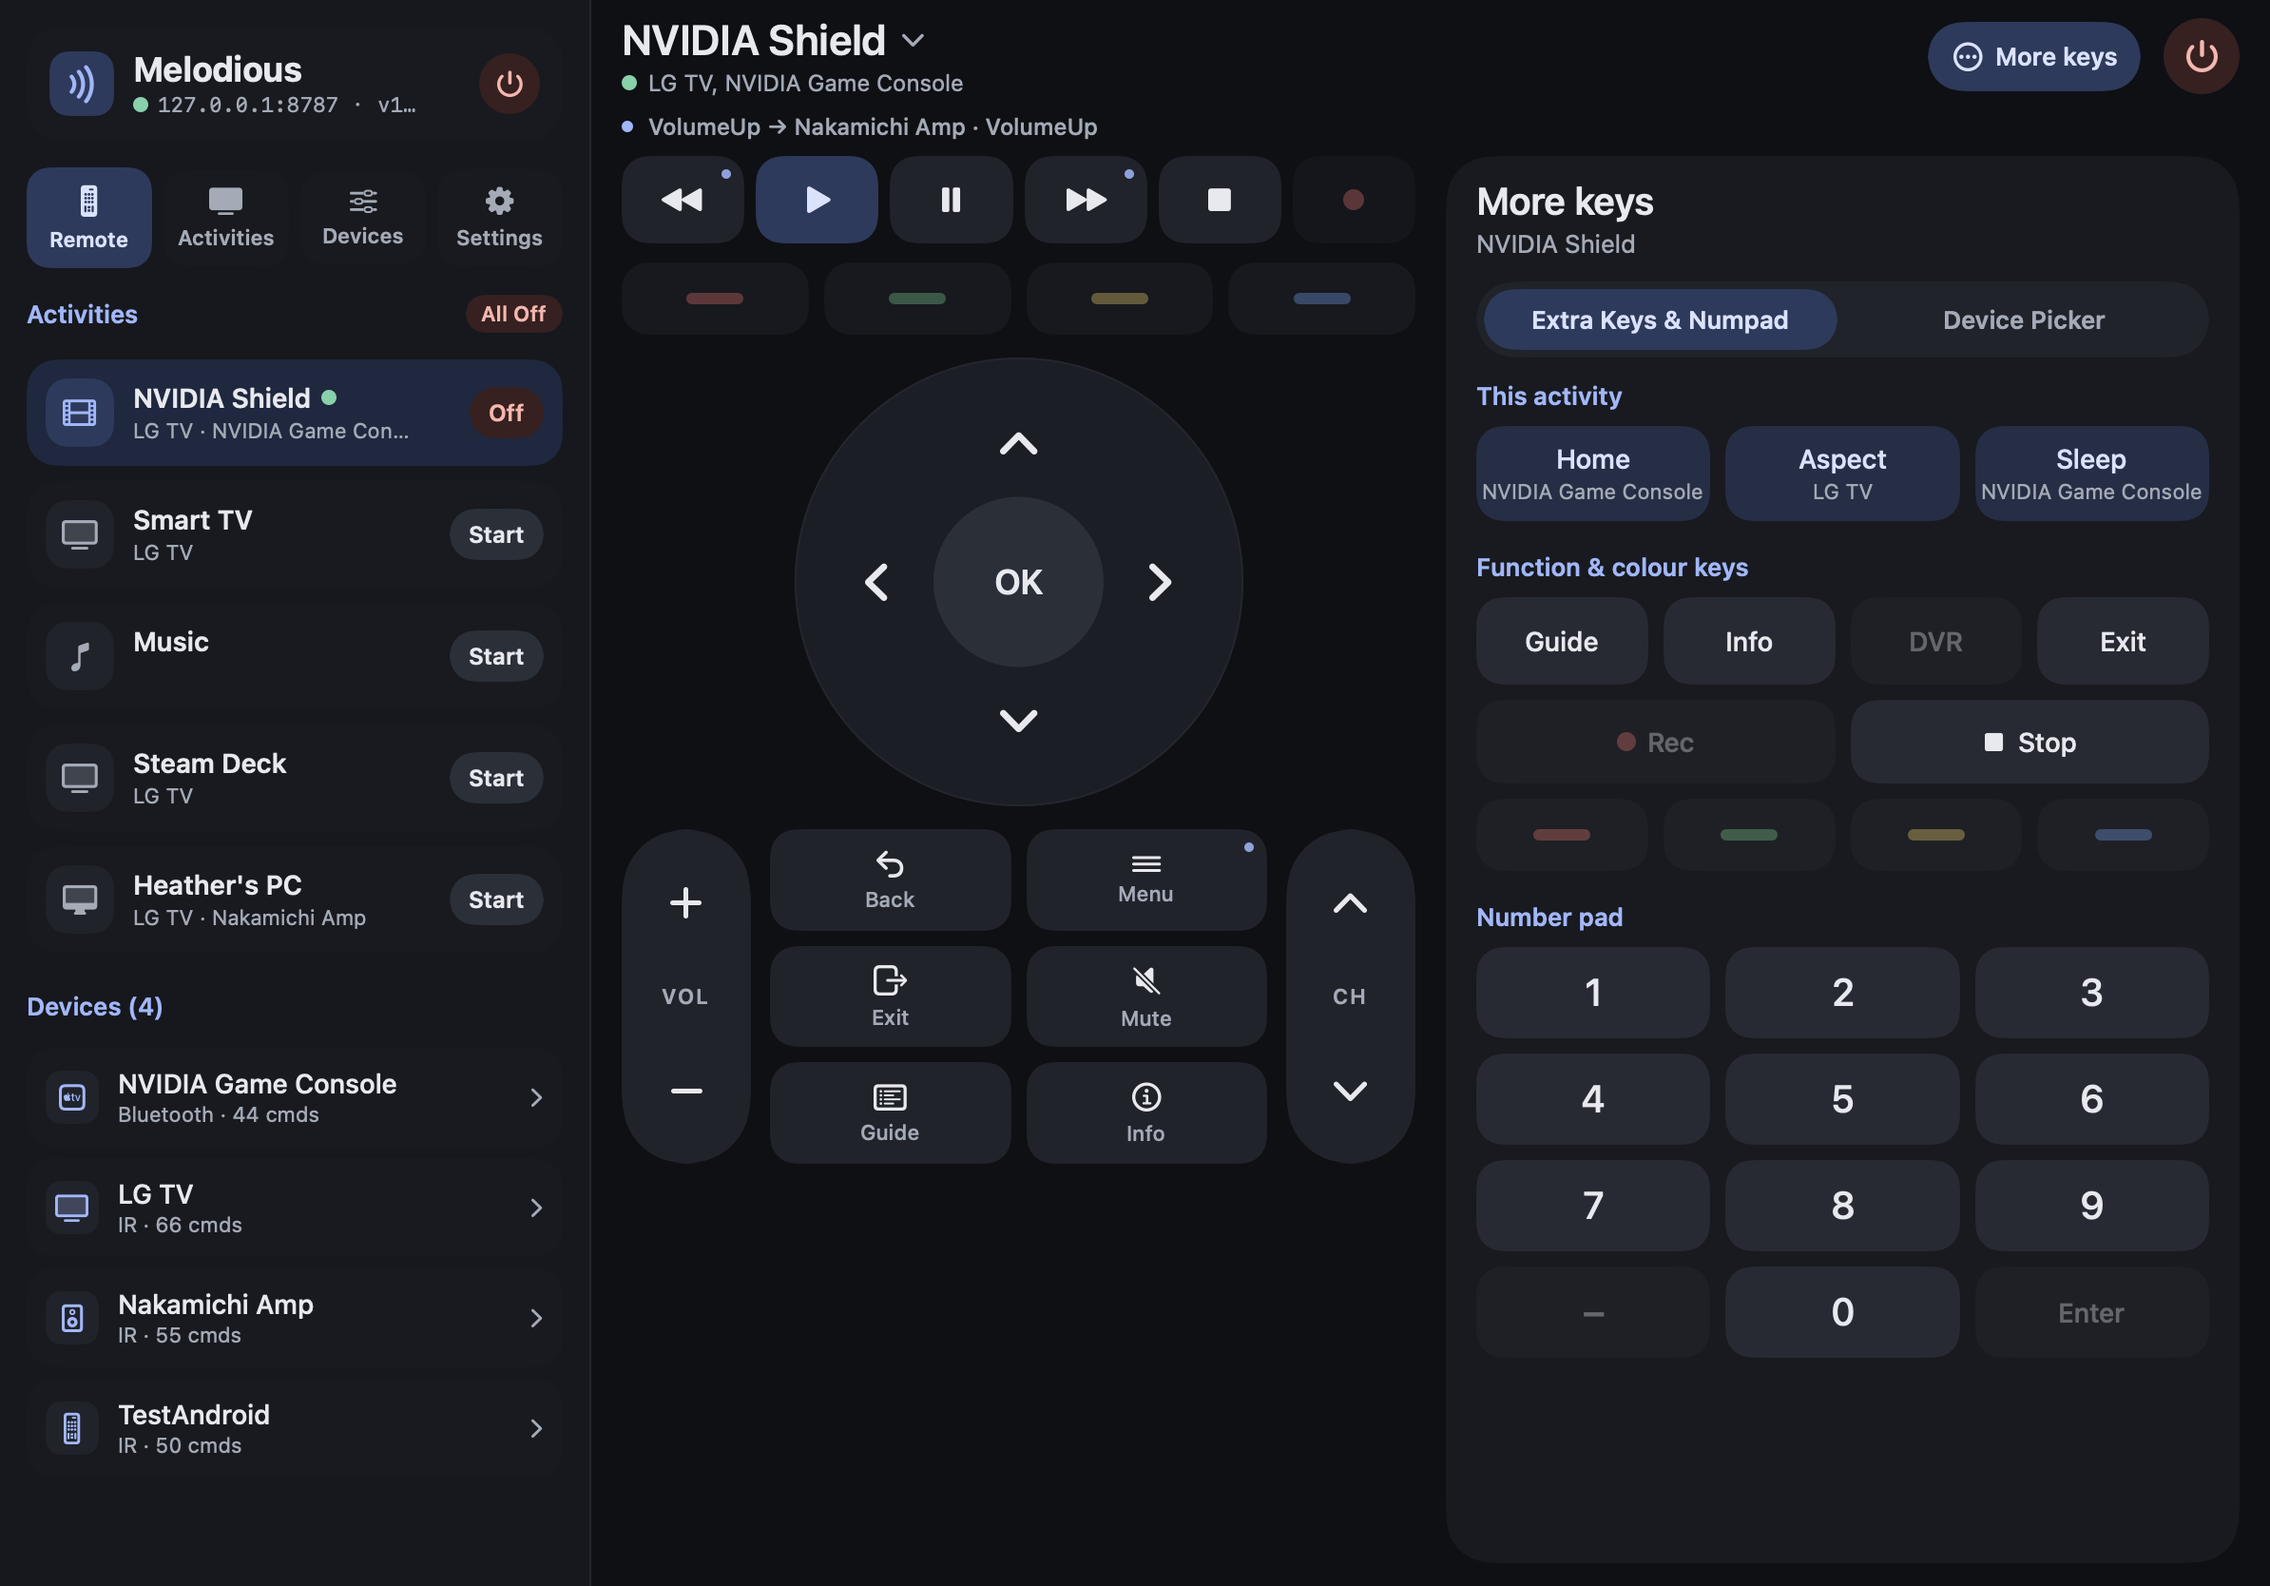
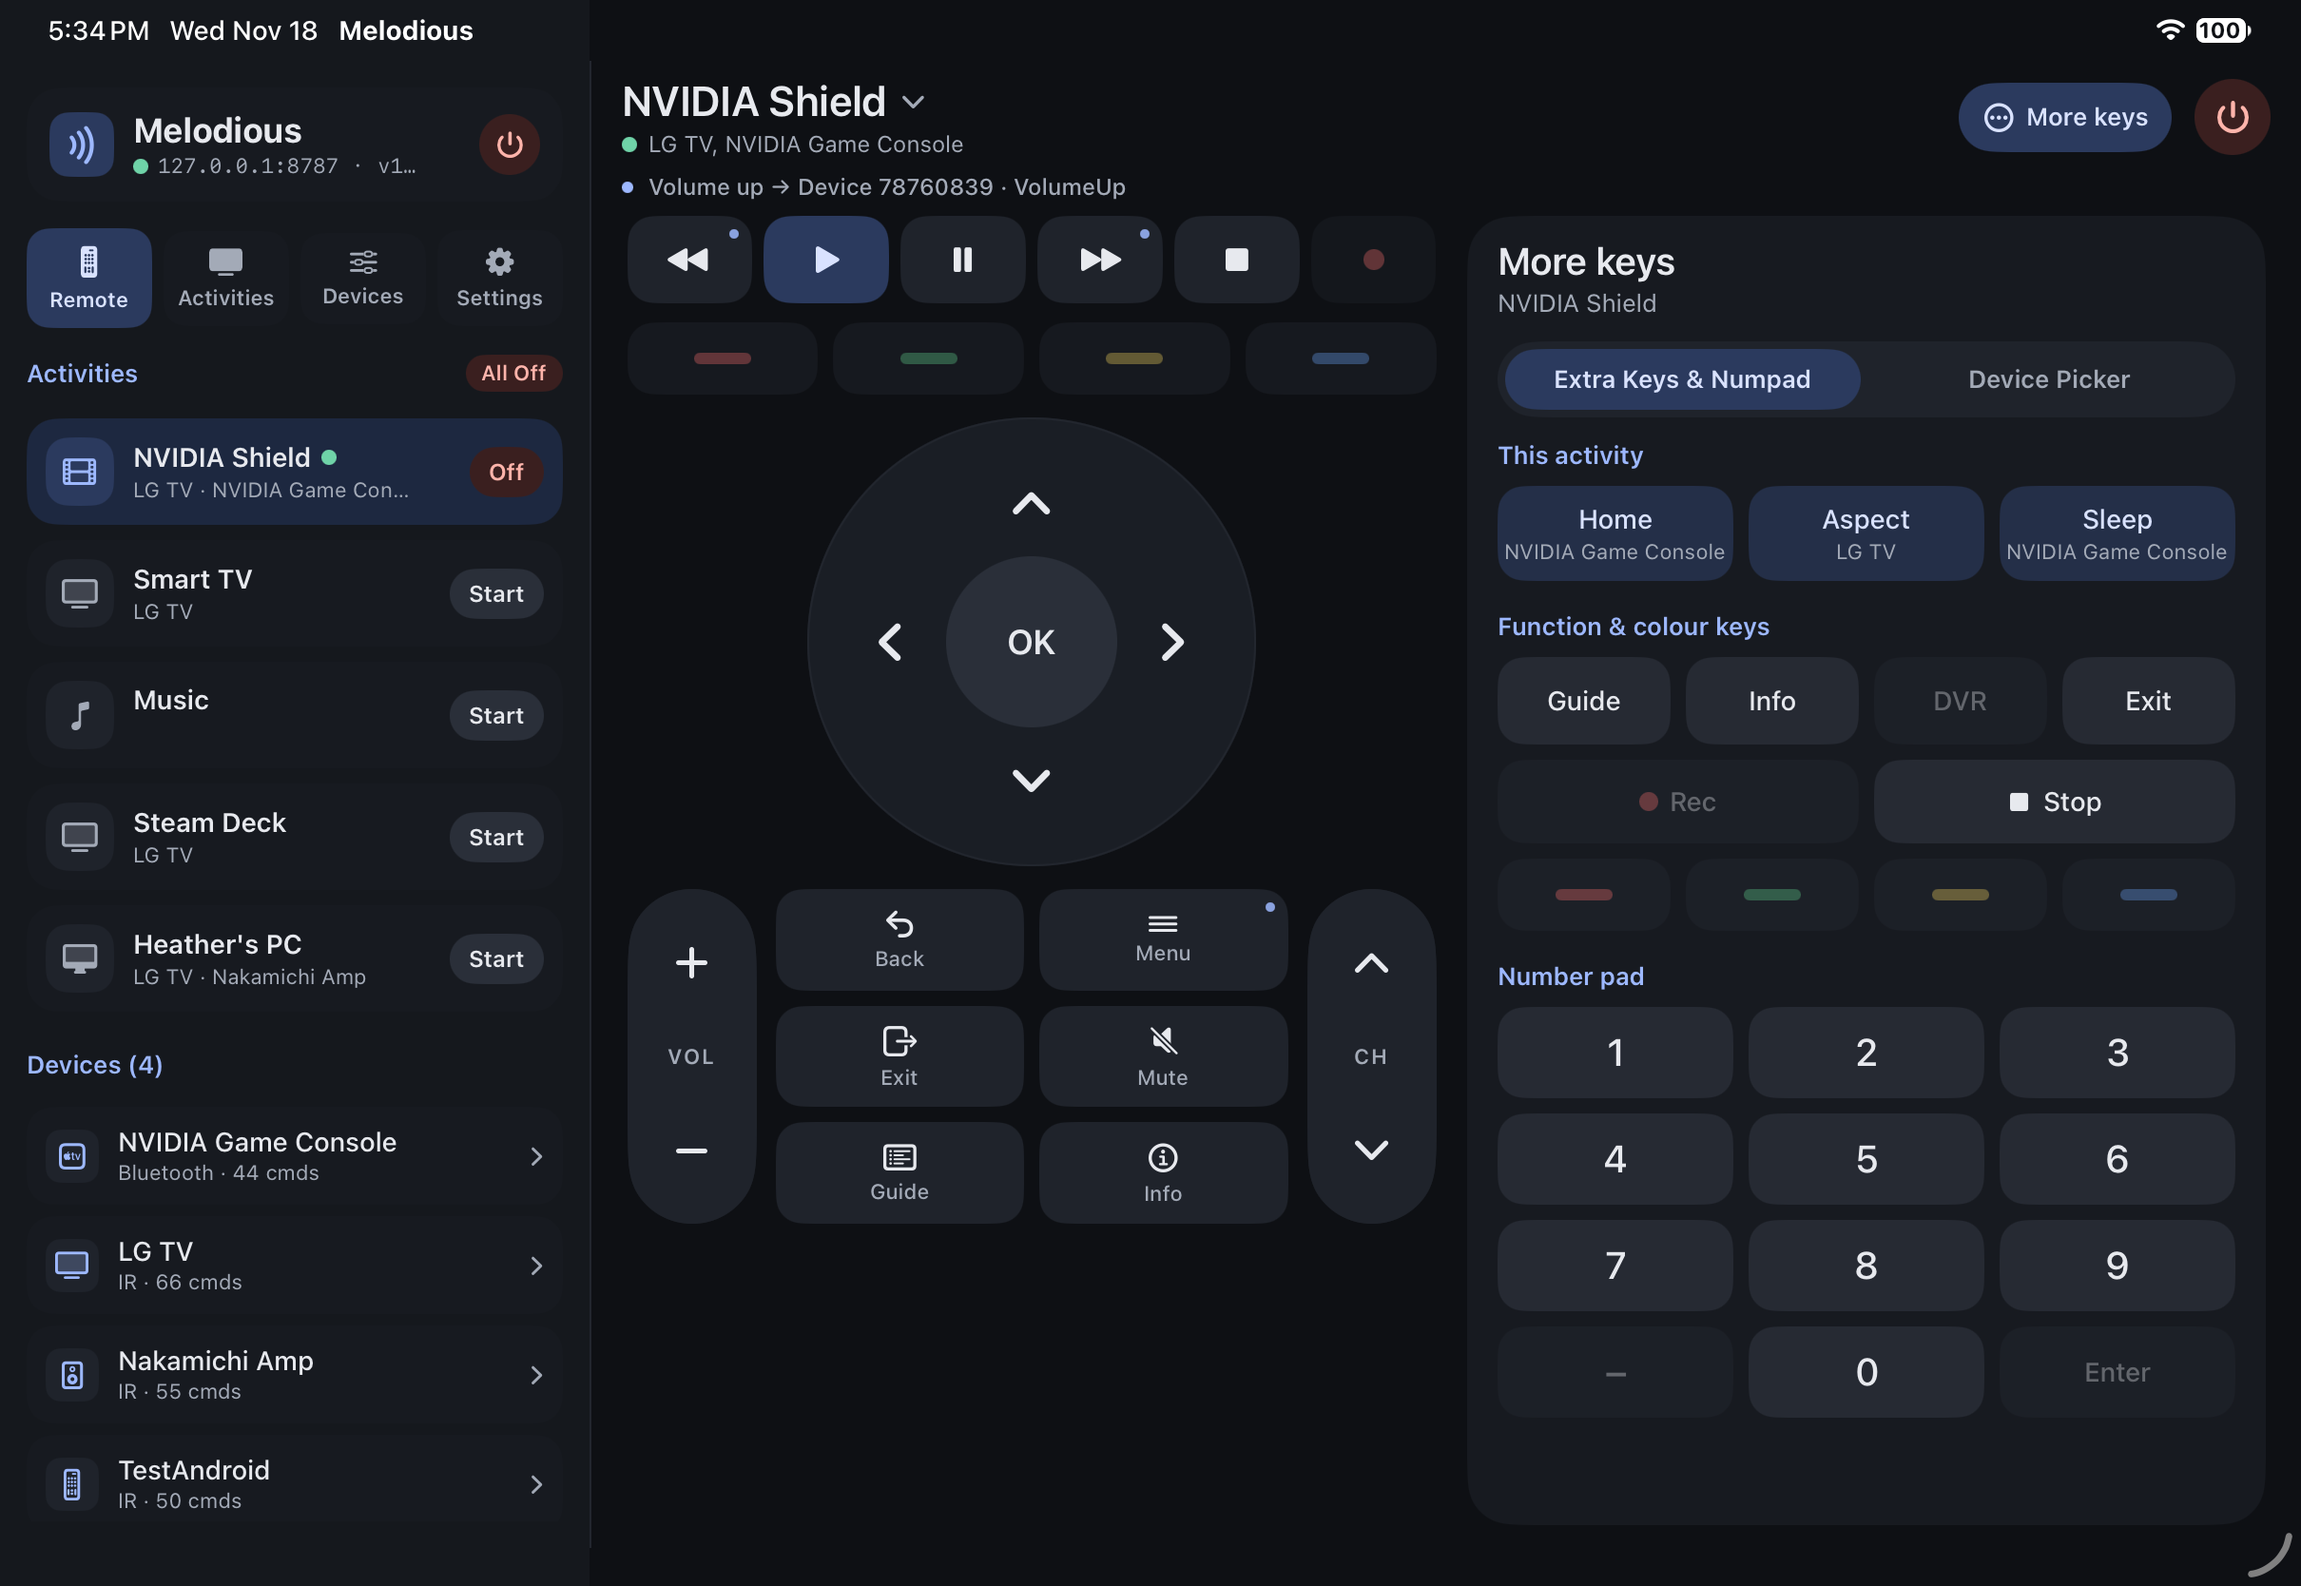
docs(ios): replace layout renders with iOS 27.2 Simulator captures

diff --git a/docs/IOS_APP.md b/docs/IOS_APP.md
@@ -4,26 +4,26 @@ Melodious includes an **experimental, native Swift/SwiftUI client for iPhone and
 
 It ships with the **2.5.0** release as an **unsigned `.ipa` (`melodious-ios-2.5.0.ipa`) for sideloading** with AltStore or SideStore, or you can build and install it directly onto your iPad or iPhone from a Mac using Xcode free provisioning. It is not on the App Store or TestFlight.
 
-> **Preview note:** The images below are SwiftUI **layout renders at device sizes** (iPad 1194×834 and iPhone 393×852) rendered on macOS against `tools/webui-sim`. They are not iOS Simulator captures and will be replaced by real iOS Simulator captures once the app is built with Xcode.
+> **Screenshots:** Captured directly from **iOS 27.2 Simulator** (`Xcode 27.2`) running against `tools/webui-sim` on **iPad Pro 11-inch (M5)** (`2420×1668`, landscape) and **iPhone 18 Pro** (`1206×2622`, portrait).
 
 <table>
 <tr>
-<td align="center"><img src="screenshots/ios/ipad-remote.png" alt="Melodious iPad layout render — split view remote" width="520"><br><sub>iPad layout render (1194×834): hub &amp; activities sidebar, remote keypad, and More keys panel</sub></td>
-<td align="center"><img src="screenshots/ios/iphone-remote.png" alt="Melodious iPhone layout render — compact remote" width="180"><br><sub>iPhone layout render (393×852): compact tab layout</sub></td>
+<td align="center"><img src="screenshots/ios/ipad-remote.png" alt="Melodious on iPad Pro 11-inch (M5) Simulator — split view remote" width="520"><br><sub>iPad Pro 11-inch (M5) Simulator (iOS 27.2): hub &amp; activities sidebar, remote keypad, and More keys panel</sub></td>
+<td align="center"><img src="screenshots/ios/iphone-remote.png" alt="Melodious on iPhone 18 Pro Simulator — compact remote" width="180"><br><sub>iPhone 18 Pro Simulator (iOS 27.2): compact tab layout</sub></td>
 </tr>
 </table>
 
 <details>
-<summary>More iPad and iPhone layout renders</summary>
+<summary>More iPad and iPhone Simulator screenshots</summary>
 
 <table>
 <tr>
-<td align="center"><img src="screenshots/ios/ipad-activities.png" alt="iPad Activities layout render" width="440"><br><sub>iPad layout render: Activities</sub></td>
-<td align="center"><img src="screenshots/ios/ipad-devices.png" alt="iPad Devices layout render" width="440"><br><sub>iPad layout render: Device commands</sub></td>
+<td align="center"><img src="screenshots/ios/ipad-activities.png" alt="iPad Pro 11-inch (M5) Simulator — Activities" width="440"><br><sub>iPad Simulator: Activities</sub></td>
+<td align="center"><img src="screenshots/ios/ipad-devices.png" alt="iPad Pro 11-inch (M5) Simulator — Device commands" width="440"><br><sub>iPad Simulator: Device commands</sub></td>
 </tr>
 <tr>
-<td align="center"><img src="screenshots/ios/iphone-activities.png" alt="iPhone Activities layout render" width="180"><br><sub>iPhone layout render: Activities</sub></td>
-<td align="center"><img src="screenshots/ios/iphone-devices.png" alt="iPhone Devices layout render" width="180"><br><sub>iPhone layout render: Devices</sub></td>
+<td align="center"><img src="screenshots/ios/iphone-activities.png" alt="iPhone 18 Pro Simulator — Activities" width="180"><br><sub>iPhone Simulator: Activities</sub></td>
+<td align="center"><img src="screenshots/ios/iphone-devices.png" alt="iPhone 18 Pro Simulator — Devices" width="180"><br><sub>iPhone Simulator: Devices</sub></td>
 </tr>
 </table>
 
@@ -109,7 +109,7 @@ If you have a Mac with Xcode, you can build, sign with a free Apple ID, and inst
    ```bash
    open ios/Melodious/Melodious.xcodeproj
    ```
-2. In the project navigator, select **Melodious** (top-level project) → select the **Melodious** app target → open the **Signing & Capabilities** tab.
+2. In the left Project Navigator (`⌘1`), click **Melodious** (top-level blue project icon), then in the editor column select **Melodious** under **TARGETS** (not under **PROJECT**) and open the **Signing & Capabilities** tab.
 3. Check **Automatically manage signing**.
 4. Under **Team**, select your **Personal Team** (if you haven't added your Apple ID yet, click **Add Account…** in Xcode → Settings → Accounts; a free Apple ID works).
 5. If Apple reports that the bundle identifier `app.melodious.ios` is already registered to another team in Apple's portal, append your own suffix in the **Bundle Identifier** field (for example `app.melodious.ios.yourname`).
@@ -134,13 +134,13 @@ This runs `xcodebuild` (`-configuration Release -destination "generic/platform=i
 
 ### Run the unit tests and simulator against `tools/webui-sim`
 
-On a Mac with Xcode installed, you can run the XCTest unit test suite (hub URL parsing, `/24` subnet candidate generation, `/api/version` + `/api/activity-config` + state-digest JSON fixture parsing, remote key → HBus press/hold/release frame sequences, and saved-hub persistence) on an iPad simulator:
+On a Mac with Xcode installed (verified with **Xcode 27.2** / **iOS 27.2 Simulator**), run the 15-test XCTest unit suite (hub URL parsing, `/24` subnet candidate generation, `/api/version` + `/api/activity-config` + state-digest JSON fixture parsing, remote key → HBus press/hold/release frame sequences, and saved-hub persistence) on an iPad simulator:
 
 ```bash
 xcodebuild test \
   -project ios/Melodious/Melodious.xcodeproj \
   -scheme Melodious \
-  -destination 'platform=iOS Simulator,name=iPad Pro 11-inch (M4)'
+  -destination 'platform=iOS Simulator,name=iPad Pro 11-inch (M5)'
 ```
 
 To run the app in the iPad or iPhone simulator against the local mock hub without touching a real Harmony Hub:
